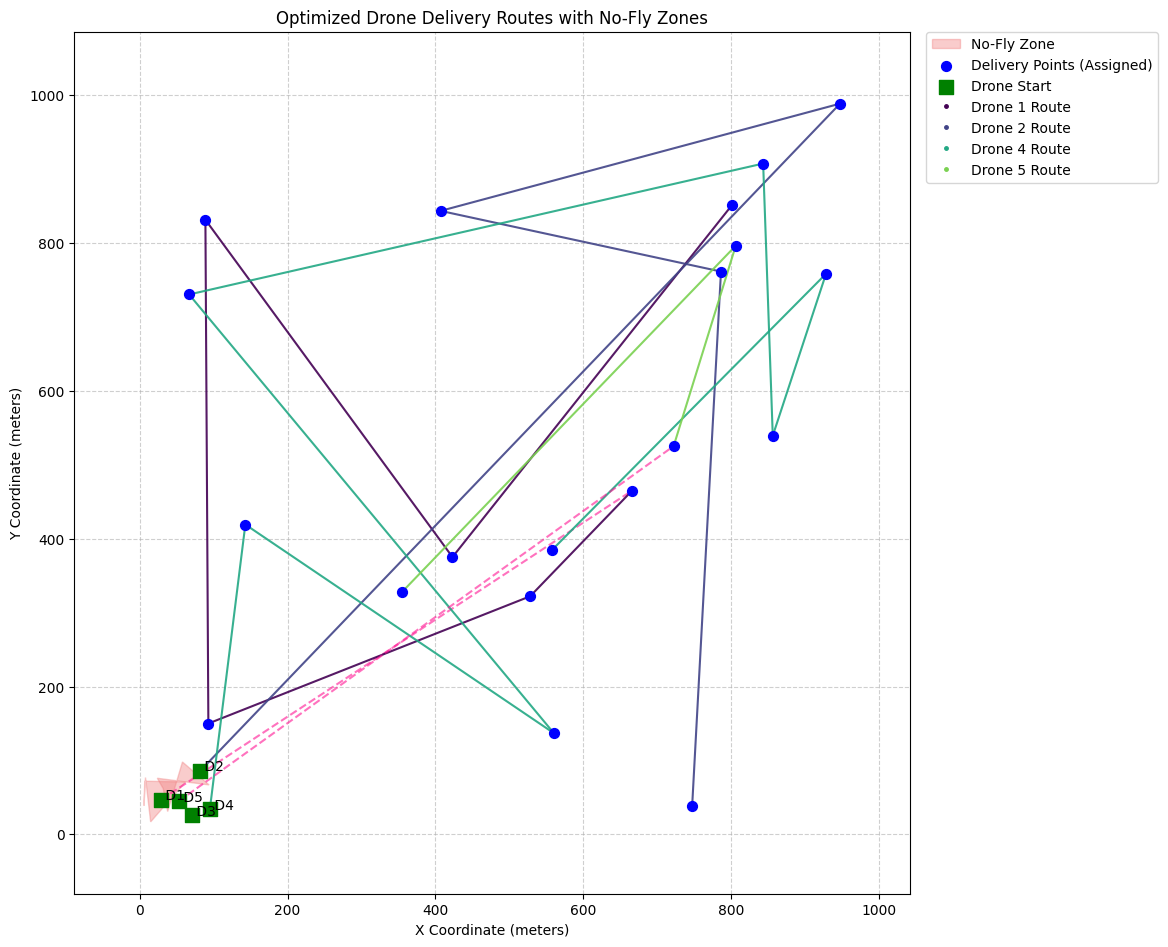
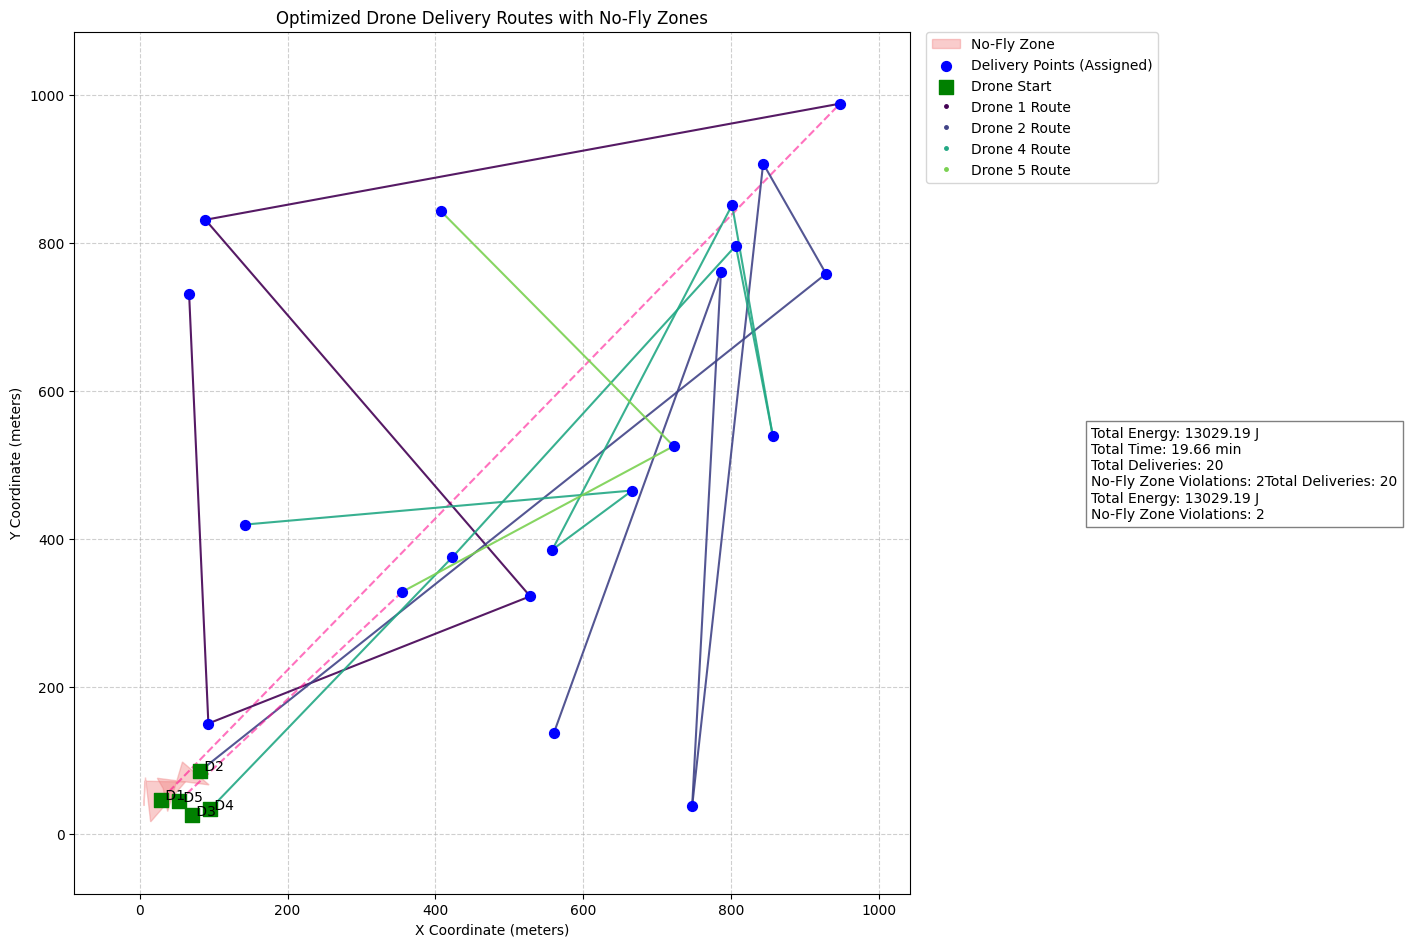
add total metrics

diff --git a/visualization.py b/visualization.py
@@ -1,16 +1,14 @@
 # visualization.py
 import matplotlib.pyplot as plt
 from matplotlib.patches import Polygon as MplPolygon
-from data_structures import Drone, DeliveryPoint, NoFlyZone
-from simulation import simulate_drone_route # Gerekirse
-from utils import calculate_distance # Gerekirse
-from pathfinding import find_path_a_star # Gerekirse
+from model.data_structures import Drone, DeliveryPoint, NoFlyZone
+from pathfinding import find_path_a_star
 import copy
 
 TARGET_NFZ_COLOR = 'lightcoral'
 TARGET_NFZ_ALPHA = 0.4
 
-def plot_results(drones, deliveries, no_fly_zones, best_solution, filename="delivery_routes.png"):
+def plot_results(drones, deliveries, no_fly_zones, best_solution, filename="delivery_routes.png", metrics_text=None):
     fig, ax = plt.subplots(figsize=(12, 10))
 
     all_deliveries_dict = {d.id: d for d in deliveries}
@@ -27,7 +25,6 @@ def plot_results(drones, deliveries, no_fly_zones, best_solution, filename="deli
     else:
         print("  plot_results fonksiyonuna BOŞ bir no_fly_zones listesi geldi.")
 
-
     nfz_plotted_in_legend = False
     for nfz_idx, nfz in enumerate(no_fly_zones):
         print(f"  NFZ döngüsü içinde, nfz_idx: {nfz_idx}, nfz.id: {nfz.id}")
@@ -37,17 +34,15 @@ def plot_results(drones, deliveries, no_fly_zones, best_solution, filename="deli
             patch = MplPolygon(
                 coords,
                 closed=True,
-                color=TARGET_NFZ_COLOR, # Değişkeni kullanıyoruz
+                color=TARGET_NFZ_COLOR,
                 alpha=TARGET_NFZ_ALPHA,
                 label='No-Fly Zone' if not nfz_plotted_in_legend else ""
             )
             ax.add_patch(patch)
-            nfz_plotted_in_legend = True # Sadece ilk geçerli NFZ için etiket ekle
+            nfz_plotted_in_legend = True
         else:
             print(f"    UYARI: NFZ {nfz.id} için geçerli bir poligon bulunamadı (nfz.polygon is None), çizilmeyecek.")
 
-    # ... (kodun geri kalanı aynı: teslimat noktaları, drone başlangıçları, rotalar vb.) ...
-    # Plot Delivery Points
     all_assigned_ids = set(item for sublist in best_solution for item in sublist) if best_solution else set()
     pending_x = [d.pos[0] for d in deliveries if d.id not in all_assigned_ids]
     pending_y = [d.pos[1] for d in deliveries if d.id not in all_assigned_ids]
@@ -59,14 +54,12 @@ def plot_results(drones, deliveries, no_fly_zones, best_solution, filename="deli
     if pending_x:
          ax.scatter(pending_x, pending_y, c='gray', marker='x', label='Delivery Points (Not Assigned/Failed)', s=50, zorder=3)
 
-    # Plot Drone Start Positions
     start_x = [d.start_pos[0] for d in drones]
     start_y = [d.start_pos[1] for d in drones]
     ax.scatter(start_x, start_y, c='green', marker='s', s=100, label='Drone Start', zorder=4)
     for i, drone_obj in enumerate(drones):
         ax.annotate(f" D{drone_obj.id}", (start_x[i], start_y[i]), zorder=5)
 
-    # Plot Drone Routes from the best solution
     colors = plt.cm.viridis([i / max(1, len(sim_drones)) for i in range(len(sim_drones))])
     all_x_coords = start_x + [d.pos[0] for d in deliveries]
     all_y_coords = start_y + [d.pos[1] for d in deliveries]
@@ -108,19 +101,18 @@ def plot_results(drones, deliveries, no_fly_zones, best_solution, filename="deli
                     ax.plot([current_pos[0], delivery.pos[0]], [current_pos[1], delivery.pos[1]],
                             color='dimgray', linestyle=':', marker='x', alpha=0.7, linewidth=1, zorder=2)
                     break
-            
+
             if len(path_x) > 1:
                 drone_label = f'Drone {drone.id} Route'
                 ax.plot(path_x, path_y, color=route_color, linestyle='', marker='.', label=drone_label, markersize=5, zorder=2.5)
 
-    # Set plot limits and labels
     if all_x_coords or all_y_coords:
-        for nfz_item in no_fly_zones: # nfz_item olarak değiştirdim, nfz ile karışmasın
+        for nfz_item in no_fly_zones:
             if nfz_item.polygon:
                 nfz_x, nfz_y = nfz_item.polygon.exterior.xy
                 all_x_coords.extend(nfz_x)
                 all_y_coords.extend(nfz_y)
-        
+
         min_x = min(all_x_coords) if all_x_coords else -1000
         max_x = max(all_x_coords) if all_x_coords else 1000
         min_y = min(all_y_coords) if all_y_coords else -1000
@@ -143,7 +135,7 @@ def plot_results(drones, deliveries, no_fly_zones, best_solution, filename="deli
     handles, labels = ax.get_legend_handles_labels()
     by_label = {}
     for handle, label in zip(handles, labels):
-        if label not in by_label: 
+        if label not in by_label:
             by_label[label] = handle
     if by_label:
         ax.legend(by_label.values(), by_label.keys(), loc='upper left', bbox_to_anchor=(1.02, 1), borderaxespad=0.)
@@ -151,6 +143,45 @@ def plot_results(drones, deliveries, no_fly_zones, best_solution, filename="deli
     ax.set_aspect('equal', adjustable='box')
     ax.grid(True, linestyle='--', alpha=0.6)
     plt.tight_layout(rect=[0, 0, 0.85, 1])
+
+    # METRİKLERİ HESAPLA VE SAĞA EKLE
+    total_energy = 0
+    total_time = 0
+    total_deliveries = 0
+    nfz_violations = 0
+
+    for i, drone_route_ids in enumerate(best_solution):
+        if i >= len(sim_drones): continue
+        drone = copy.deepcopy(sim_drones[i])
+        current_pos = drone.start_pos
+
+        for delivery_id in drone_route_ids:
+            delivery = all_deliveries_dict.get(delivery_id)
+            if not delivery: continue
+
+            _, dist, energy, time_sec, violates_nfz = find_path_a_star(
+                current_pos, delivery.pos, drone, no_fly_zones, drone.current_time
+            )
+
+            if drone.current_battery >= energy and delivery.weight <= drone.max_weight:
+                total_energy += energy
+                total_time += time_sec
+                total_deliveries += 1
+                if violates_nfz:
+                    nfz_violations += 1
+                drone.current_battery -= energy
+                drone.current_time += time_sec / 60.0
+                current_pos = delivery.pos
+
+    metrics_text = (
+        f"Total Energy: {total_energy:.2f} J\n"
+        f"Total Time: {total_time / 60:.2f} min\n"
+        f"Total Deliveries: {total_deliveries}\n"
+        f"No-Fly Zone Violations: {nfz_violations}"
+        
+        
+    )
+    plt.gcf().text(0.86, 0.5, metrics_text, fontsize=10, va='center', bbox=dict(facecolor='white', edgecolor='gray'))
 
     try:
         plt.savefig(filename, bbox_inches='tight')

diff --git a/main.py b/main.py
@@ -1,8 +1,9 @@
 import time
-from data_loader import load_data
+from model.data_loader import load_data
 from optimization import run_ga
 from visualization import plot_results
 from config import GENERATIONS
+from simulation import evaluate_solution
 
 
 def run_scenario(filename, output_image):
@@ -12,7 +13,7 @@ def run_scenario(filename, output_image):
     load_start_time = time.time()
     drones, deliveries, no_fly_zones = load_data(filename)
     load_time = time.time() - load_start_time
-    print(f"Data loading took {load_time:.2f} seconds.")
+    print(f"Veri yükleme süresi: {load_time:.2f} saniye.")
 
     print(f"\n--- DEBUG: {filename} No-Fly Zone Bilgileri ---")
     print(f"Yüklenen no_fly_zones sayısı: {len(no_fly_zones)}")
@@ -32,11 +33,37 @@ def run_scenario(filename, output_image):
     ga_time = time.time() - ga_start_time
     print(f"Optimizasyon süreci {ga_time:.2f} saniye sürdü ({ga_time / max(1, GENERATIONS):.3f} s/nesil).")
 
+    metrics_text = ""
     if best_solution:
         final_delivered = sum(len(route) for route in best_solution)
+        total_deliveries = len(deliveries)
+        delivery_percentage = (final_delivered / total_deliveries) * 100 if total_deliveries > 0 else 0
+
+        total_consumption = sum(d.battery_capacity - d.current_battery for d in drones)
+        average_consumption = total_consumption / len(drones) if drones else 0
+
         print(f"\nGA Tamamlandı.")
         print(f"  Fitness: {best_fitness:.2f}")
-        print(f"  Tamamlanan Teslimatlar: {final_delivered}")
+        print(f"  Tamamlanan Teslimatlar: {final_delivered}/{total_deliveries}")
+        print(f"\n--- METRİKLER ---")
+        print(f"  Tamamlanan Teslimat Yüzdesi: %{delivery_percentage:.2f}")
+        print(f"  Ortalama Enerji Tüketimi: {average_consumption:.2f} mAh")
+        print(f"  Toplam GA Süresi: {ga_time:.2f} saniye")
+        
+        all_deliveries_dict = {delivery.id: delivery for delivery in deliveries}
+        total_delivered, total_energy, total_violations = evaluate_solution(
+            best_solution, drones, all_deliveries_dict, no_fly_zones)   
+
+        # Metrik metni görselleştirme için hazırla
+        metrics_text = (
+            f"Teslimat Yüzdesi: %{delivery_percentage:.1f}\n"
+            f"Ortalama Enerji: {average_consumption:.1f} mAh\n"
+            f"Süre: {ga_time:.1f} s"
+            f"✅ Başarıyla Teslim: {total_delivered}\n"
+            f"🔋 Enerji: {total_energy:.2f} mAh\n"
+            f"⚠ İhlal: {total_violations}"
+            
+        )
     else:
         print("\nGA bir çözüm bulamadı.")
 
@@ -44,13 +71,18 @@ def run_scenario(filename, output_image):
     if best_solution:
         print("\nGörselleştirme oluşturuluyor...")
         plot_start_time = time.time()
-        plot_results(drones, deliveries, no_fly_zones, best_solution, output_image)
+        plot_results(
+            drones, deliveries, no_fly_zones,
+            best_solution, output_image,
+            metrics_text=metrics_text  # Metrik metni ekleniyor
+        )
         plot_time = time.time() - plot_start_time
         print(f"Çizim {plot_time:.2f} saniye sürdü.")
     else:
         print("Geçerli çözüm yok, çizim yapılmadı.")
 
     print(f"\n========== {filename.upper()} Senaryosu Tamamlandı ==========")
+
 
 
 def main():

diff --git a/model/data_loader.py b/model/data_loader.py
@@ -1,5 +1,5 @@
 # data_loader.py
-from data_structures import Drone, DeliveryPoint, NoFlyZone
+from model.data_structures import Drone, DeliveryPoint, NoFlyZone
 from config import DEFAULT_CONSUMPTION_RATE_MAH_PER_METER # config.py'den import
 
 def load_data(filepath="data.txt"):

diff --git a/model/load_data.py b/model/load_data.py
@@ -1,6 +1,6 @@
 import random
 from datetime import datetime, timedelta
-from data_structures import Drone, DeliveryPoint, NoFlyZone
+from model.data_structures import Drone, DeliveryPoint, NoFlyZone
 
 class LoadData:
     @staticmethod
